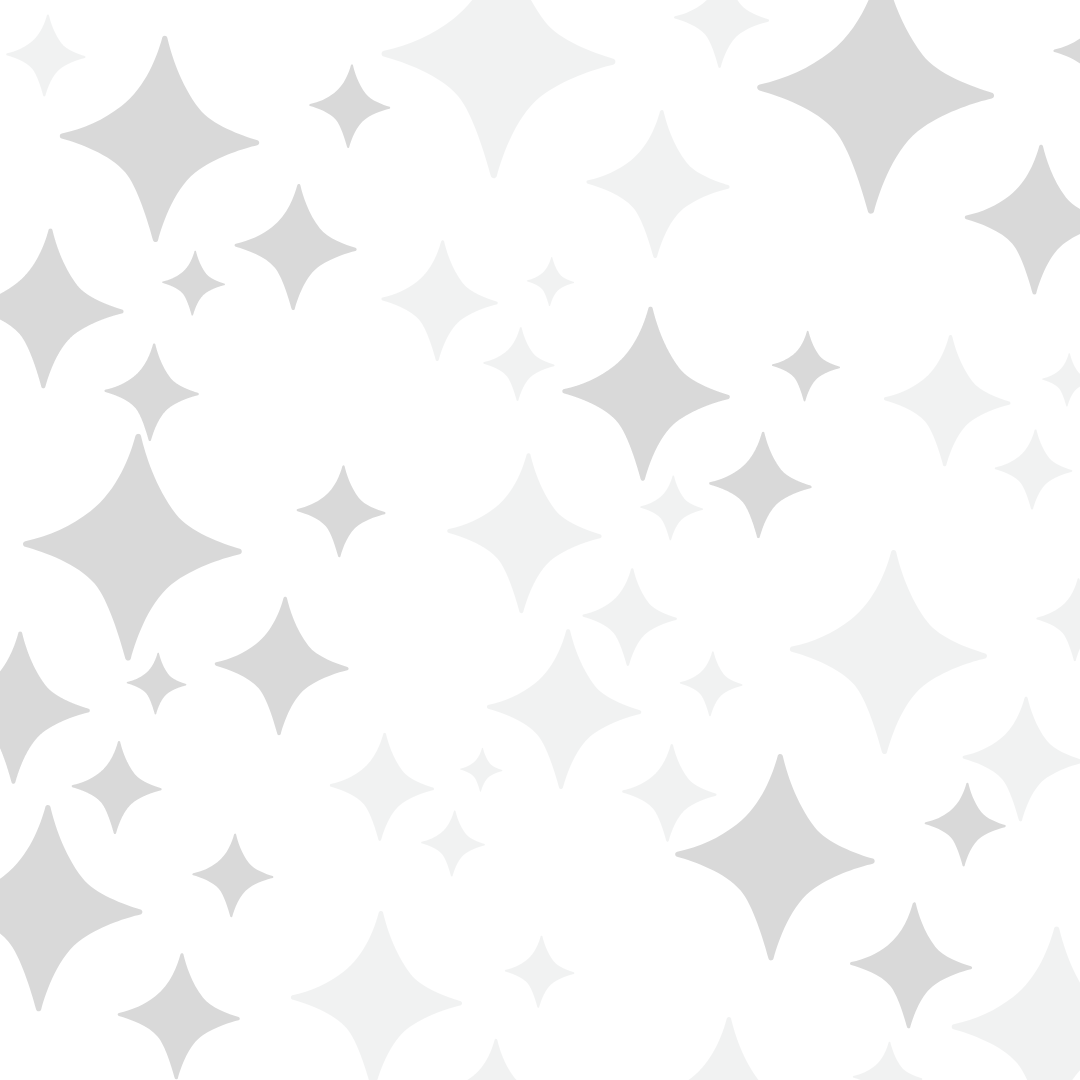
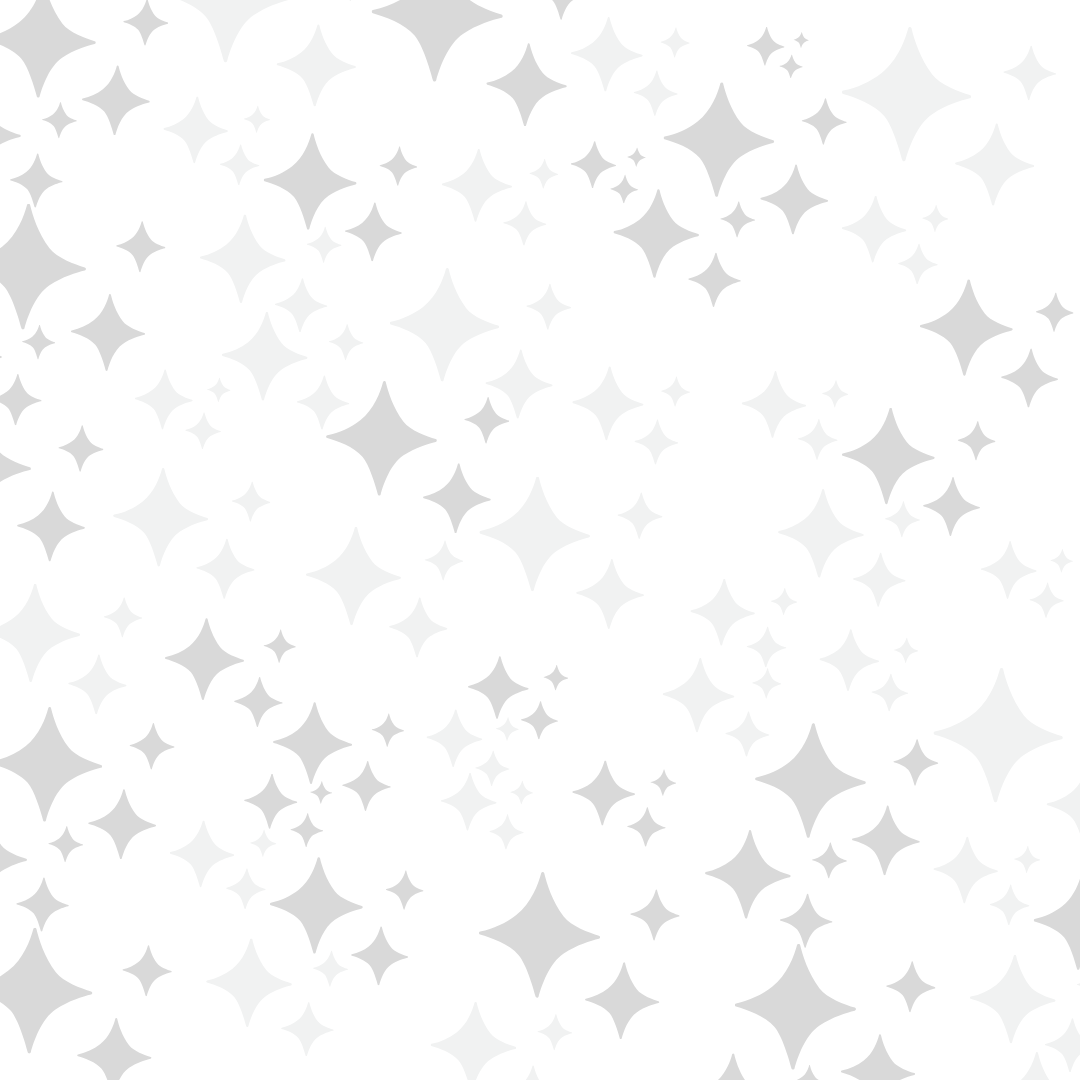
Atualizando front

diff --git a/frontend/screens/HomeScreen/GlossaryScreen/GlossaryScreen.js b/frontend/screens/HomeScreen/GlossaryScreen/GlossaryScreen.js
@@ -1,5 +1,5 @@
-import React, { useState, useEffect } from "react";
-import { View, Text, TouchableOpacity, ActivityIndicator, FlatList, SafeAreaView } from "react-native";
+import React, { useState } from "react";
+import { View, Text, TouchableOpacity, ActivityIndicator, FlatList, SafeAreaView, ImageBackground } from "react-native";
 import { isTablet } from "../../../utils/utils";
 // Styles
 import Styles from "./styles/GlossaryStyle";
@@ -39,56 +39,60 @@ const ModuleG = ({ route }) => {
 
     return (
         // Cor
-        <SafeAreaView style={[Containers.ContainerBgHome, { paddingHorizontal: 20, paddingBottom: 85 }]}>
+        <SafeAreaView style={[Containers.ContainerBgHome,{paddingBottom:85,}]}>
 
-            {loading
-                ?
-                <ActivityIndicator
-                    size={'large'}
-                    style={{ flex: 1 }}
-                    color={Colors.Blue}
-                />
-                :
-                <View
-                    style={{ flex: 1, width: "100%" }}
-                    showsVerticalScrollIndicator={false}
-                    contentContainerStyle={{ flexGrow: 1, gap: 40 }}
-                >
-                    {/* Header */}
-                    <View style={Styles.headerContainer}>
-                        <View style={{ flex: 1, justifyContent: 'center' }}>
-                            <Text style={Styles.title}>Glossário</Text>
+            <ImageBackground
+            style={{flex:1}}
+            imageStyle={{opacity:0.3}}
+            source={require('../../../assets/images/global/bgImage.png')}
+            >
+
+                {loading
+                    ?
+                    <ActivityIndicator
+                        size={'large'}
+                        style={{ flex: 1 }}
+                        color={Colors.Blue}
+                    />
+                    :
+                    <View
+                        style={{ flex: 1, width: "100%" }}
+                    >
+                        {/* Header */}
+                        <View style={Styles.headerContainer}>
+                            <View style={{ flex: 1, justifyContent: 'center' }}>
+                                <Text style={Styles.title}>Glossário</Text>
+                            </View>
+
+                            <TouchableOpacity style={{ flex: 1 }}
+                                onPress={() => setModal(true)}>
+
+                                <View style={Styles.favoriteWrapper}>
+                                    {/* Função para ver favoritos */}
+                                    <FontAwesome name="sort-desc" size={size} color="gray" />
+                                    <Text style={Styles.favoriteText}>Favoritos</Text>
+                                    <AntDesign name="star" size={size} color={Colors.Blue} />
+
+                                </View>
+                            </TouchableOpacity>
+
+                            {/* Ao pressionar para ver os favoritos, abre a modal */}
+                            <ModalC modalValue={showModal} handleClose={handleClose} data={checked} />
+
                         </View>
 
-                        <TouchableOpacity style={{ flex: 1 }}
-                            onPress={() => setModal(true)}>
-
-                            <View style={Styles.favoriteWrapper}>
-                                {/* Função para ver favoritos */}
-                                <FontAwesome name="sort-desc" size={size} color="gray" />
-                                <Text style={Styles.favoriteText}>Favoritos</Text>
-                                <AntDesign name="star" size={size} color={Colors.Blue} />
-
-                            </View>
-                        </TouchableOpacity>
-
-                        {/* Ao pressionar para ver os favoritos, abre a modal */}
-                        <ModalC modalValue={showModal} handleClose={handleClose} data={checked} />
+                        {/* Lista de elementos */}
+                        <FlatList
+                            data={data}
+                            contentContainerStyle={{ gap: 30, paddingHorizontal:20 }}
+                            keyExtractor={(el) => el.i_id_glossario}
+                            renderItem={(item) => <CardC item={item.item} onPress={updateFavorite} checked={checked} />}
+                            showsVerticalScrollIndicator={false}
+                        />
 
                     </View>
-
-                    {/* Lista de elementos */}
-                    <FlatList
-                        data={data}
-                        contentContainerStyle={{ gap: 30 }}
-                        keyExtractor={(el) => el.i_id_glossario}
-                        renderItem={(item) => <CardC item={item.item} onPress={updateFavorite} checked={checked} />}
-                        showsVerticalScrollIndicator={false}
-                    />
-
-                </View>
-            }
-
+                }
+            </ImageBackground>
         </SafeAreaView>
     );
 };

diff --git a/frontend/screens/HomeScreen/MainScreen/MainScreen.js b/frontend/screens/HomeScreen/MainScreen/MainScreen.js
@@ -1,5 +1,5 @@
 import React, { useContext, useState } from "react";
-import { SafeAreaView, FlatList, ActivityIndicator, View } from "react-native";
+import { SafeAreaView, FlatList, ActivityIndicator, View, ImageBackground } from "react-native";
 
 // Styles
 import Styles from "./styles/mainScreenStyle";
@@ -25,35 +25,41 @@ const MainScreen = ({ route }) => {
 
     return (
         <SafeAreaView style={Styles.bgContainer}>
-            {isLoading
-                ?
-                <ActivityIndicator
-                    size={'large'}
-                    color={Colors.Orange}
-                    style={{ flex: 1 }}
-                />
-                : (
-                    <View
-                        style={{ flex: 1 }}>
-                        <FlatList
-                            data={formatedData}
-                            horizontal={true}
-                            pagingEnabled
-                            onMomentumScrollEnd={(event) => {
-                                const index = Math.floor(
-                                    event.nativeEvent.contentOffset.x /
-                                    event.nativeEvent.layoutMeasurement.width
-                                );
+            <ImageBackground
+            source={require('../../../assets/images/global/bgImage.png')}
+            imageStyle={{opacity:0.3}}
+            style={{flex:1}}>
 
-                                setIndex(index);
-                            }}
-                            showsHorizontalScrollIndicator={false}
-                            renderItem={({ item }) => <TaskC item={item} />}
-                            keyExtractor={(el) => el.i_id_glossario}
-                        />
-                        <PaginatorC data={formatedData} currentIndex={currentIndex} />
-                    </View>
-                )}
+                {isLoading
+                    ?
+                    <ActivityIndicator
+                        size={'large'}
+                        color={Colors.Orange}
+                        style={{ flex: 1 }}
+                    />
+                    : (
+                        <View
+                            style={{ flex: 1 }}>
+                            <FlatList
+                                data={formatedData}
+                                horizontal={true}
+                                pagingEnabled
+                                onMomentumScrollEnd={(event) => {
+                                    const index = Math.floor(
+                                        event.nativeEvent.contentOffset.x /
+                                        event.nativeEvent.layoutMeasurement.width
+                                    );
+
+                                    setIndex(index);
+                                }}
+                                showsHorizontalScrollIndicator={false}
+                                renderItem={({ item }) => <TaskC item={item} />}
+                                keyExtractor={(item) => item.id_categoria}
+                            />
+                            <PaginatorC data={formatedData} currentIndex={currentIndex} />
+                        </View>
+                    )}
+            </ImageBackground>
         </SafeAreaView>
     );
 };

diff --git a/frontend/screens/HomeScreen/MainScreen/styles/mainScreenStyle.js b/frontend/screens/HomeScreen/MainScreen/styles/mainScreenStyle.js
@@ -7,7 +7,7 @@ const Styles = StyleSheet.create({
     bgContainer:{
         flex:1,
         backgroundColor:Colors.LightBlue,
-        paddingBottom:90
+        paddingBottom:85
     },
 
     title: {
@@ -25,7 +25,7 @@ const Styles = StyleSheet.create({
         flexDirection: 'row',
         width: "100%",
         height: isTablet ? 90 : 50,
-        marginBottom:15
+        marginBottom:15,
     },
 
     favoriteWrapper: {

diff --git a/frontend/screens/HomeScreen/MainScreen/components/tasksC.js b/frontend/screens/HomeScreen/MainScreen/components/tasksC.js
@@ -1,4 +1,4 @@
-import React, { useEffect } from "react";
+import React from "react";
 import { View, Text, useWindowDimensions, TouchableOpacity, Image } from "react-native";
 
 //Styles
@@ -15,7 +15,7 @@ const TaskC = ({ item }) => {
     const haveStatus = item.status_categoria || 0;
 
     const titulo = item.nome_categoria;
-    
+
     return (
         <View
             style={[Styles.categoryContainer, { width }]}>

diff --git a/frontend/screens/HomeScreen/GlossaryScreen/styles/GlossaryStyle.js b/frontend/screens/HomeScreen/GlossaryScreen/styles/GlossaryStyle.js
@@ -19,7 +19,8 @@ const Styles = StyleSheet.create({
         flexDirection: 'row',
         width: "100%",
         height: isTablet ? 90 : 50,
-        marginBottom:15
+        marginBottom:15,
+        paddingHorizontal:20
     },
 
     favoriteWrapper: {
